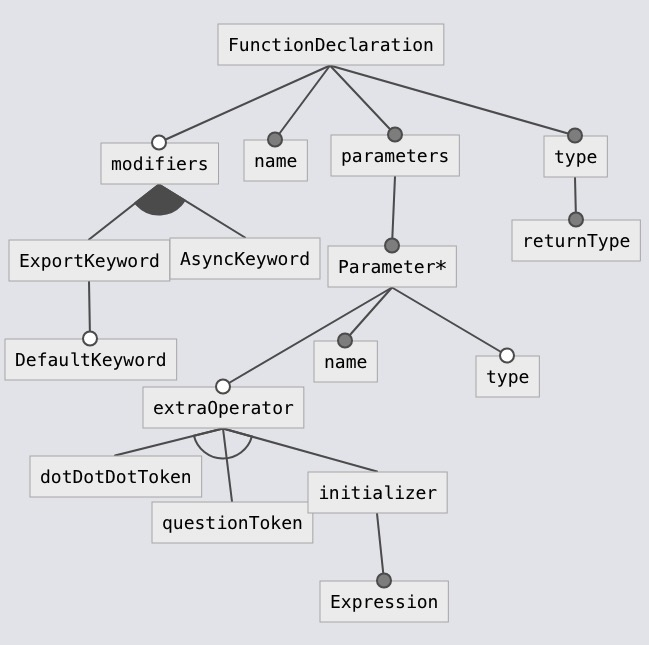
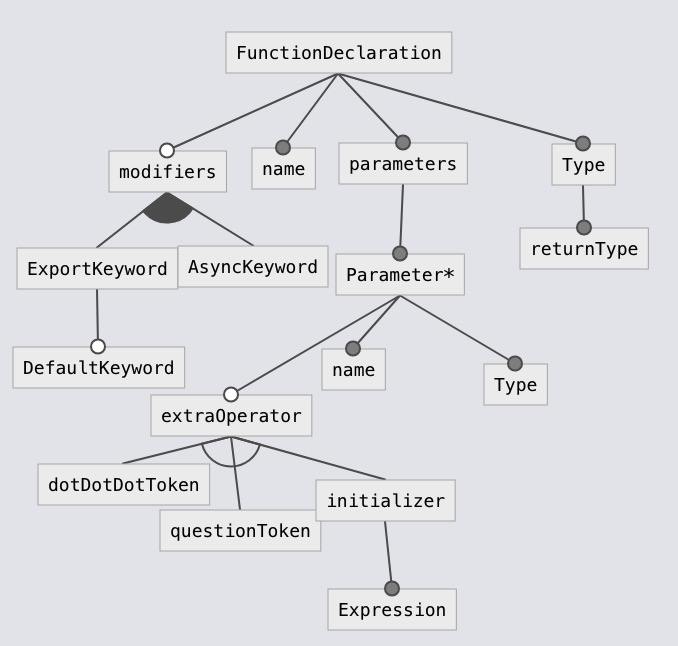
function feedback

Changed region(s): [[0.0, 0.031, 1.0, 0.9922], [0.339, 0.155, 0.4006, 0.186]]

diff --git a/groupMembersModel/function/code.ts b/groupMembersModel/function/code.ts
@@ -25,7 +25,7 @@ export const FunctionDeclaration: FeatureModel = {
           parentRelation: "mandatory",
           children: [
             { name: "name", parentRelation: "mandatory" },
-            { name: "type", parentRelation: "optional" },
+            { name: "Type", parentRelation: "mandatory" },
             {
               name: "extraOperator",
               parentRelation: "optional",
@@ -46,7 +46,7 @@ export const FunctionDeclaration: FeatureModel = {
       ],
     },
     {
-      name: "type",
+      name: "Type",
       parentRelation: "mandatory",
       children: [{ name: "returnType", parentRelation: "mandatory" }],
     },
